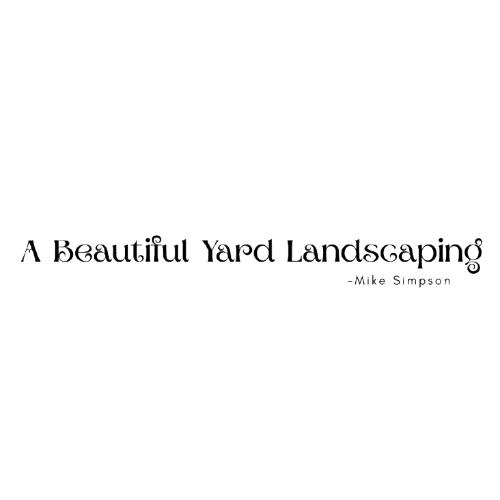
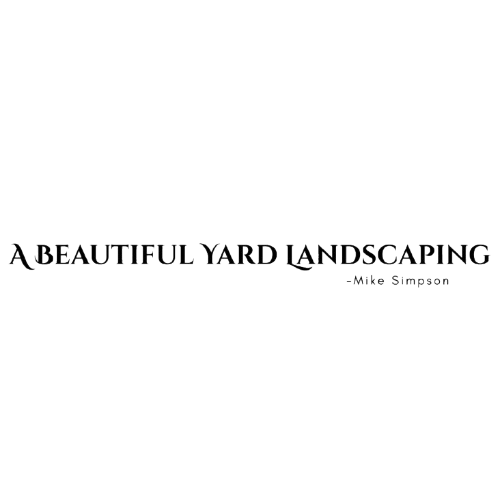
Add images to About and Contact pages, update navbar spacing and TitleName image

Changed region(s): [[0.0, 0.45, 0.99, 0.57]]

diff --git a/frontend/src/pages/AboutPage.jsx b/frontend/src/pages/AboutPage.jsx
@@ -103,19 +103,28 @@ function AboutPage() {
               <h2 className="text-4xl md:text-5xl font-bold text-gray-900 mb-8">
                 Your Trusted Local Landscaping Partner
               </h2>
-              <div className="space-y-6 text-lg md:text-xl text-gray-700 leading-relaxed">
-                <p>
-                  For over 20 years, A Beautiful Yard Landscaping has been transforming outdoor spaces across Greater Victoria. What started as a lawn maintenance company has grown into a full-service landscaping and gardening team—but we've never lost our personal touch.
-                </p>
-                <p>
-                  Owner Mike Simpson is on-site at every project, ensuring the quality and care your property deserves. We serve Sidney, Saanich Peninsula, Saanich, Oak Bay, Westshore, and Sooke with:
-                </p>
-                <ul className="list-disc list-inside space-y-2 ml-4">
-                  <li>Landscape maintenance and lawn care</li>
-                  <li>Garden design and restoration</li>
-                  <li>Property improvements and upgrades</li>
-                  <li>Seasonal cleanups and ongoing care</li>
-                </ul>
+              <div className="flex flex-col md:flex-row gap-8 items-start">
+                <div className="flex-1 space-y-6 text-lg md:text-xl text-gray-700 leading-relaxed">
+                  <p>
+                    For over 20 years, A Beautiful Yard Landscaping has been transforming outdoor spaces across Greater Victoria. What started as a lawn maintenance company has grown into a full-service landscaping and gardening team—but we've never lost our personal touch.
+                  </p>
+                  <p>
+                    Owner Mike Simpson is on-site at every project, ensuring the quality and care your property deserves. We serve Sidney, Saanich Peninsula, Saanich, Oak Bay, Westshore, and Sooke with:
+                  </p>
+                  <ul className="list-disc list-inside space-y-2 ml-4">
+                    <li>Landscape maintenance and lawn care</li>
+                    <li>Garden design and restoration</li>
+                    <li>Property improvements and upgrades</li>
+                    <li>Seasonal cleanups and ongoing care</li>
+                  </ul>
+                </div>
+                <div className="w-full md:w-1/3 flex-shrink-0">
+                  <img 
+                    src="/assets/images/Humming1.png" 
+                    alt="Hummingbird" 
+                    className="w-full h-auto rounded-lg object-cover"
+                  />
+                </div>
               </div>
             </div>
           </div>

diff --git a/frontend/src/pages/ContactPage.jsx b/frontend/src/pages/ContactPage.jsx
@@ -4,11 +4,22 @@ function ContactPage() {
   return (
     <div className="bg-white">
       <section className="section-padding bg-white relative">
-        <div className="container-custom text-center relative z-10">
-          <h1 className="text-4xl md:text-5xl font-bold mb-6 text-gray-900">Contact Us</h1>
-          <p className="text-xl text-gray-700">
-            We'd love to discuss your landscaping / gardening project!
-          </p>
+        <div className="container-custom relative z-10">
+          <div className="relative">
+            <div className="text-center">
+              <h1 className="text-4xl md:text-5xl font-bold mb-6 text-gray-900">Contact Us</h1>
+              <p className="text-xl text-gray-700">
+                We'd love to discuss your landscaping / gardening project!
+              </p>
+            </div>
+            <div className="absolute top-2 right-0 hidden md:block">
+              <img 
+                src="/assets/images/Hosackia pinnata.png" 
+                alt="Hosackia pinnata" 
+                className="w-32 h-auto"
+              />
+            </div>
+          </div>
         </div>
       </section>
 

diff --git a/frontend/src/components/Navbar.jsx b/frontend/src/components/Navbar.jsx
@@ -19,7 +19,7 @@ function Navbar() {
     <nav className="sticky top-0 z-50 backdrop-blur-md bg-white/80 border-b border-primary-100/50 shadow-sm">
       <div className="container-custom">
         <div className="flex justify-between items-center h-24">
-          <Link to="/" className="flex items-center gap-0 -space-x-4 md:-space-x-6">
+          <Link to="/" className="flex items-center gap-0 -space-x-1 md:-space-x-2">
             <img 
               src="/assets/images/Logo.png" 
               alt="A Beautiful Yard Logo" 
